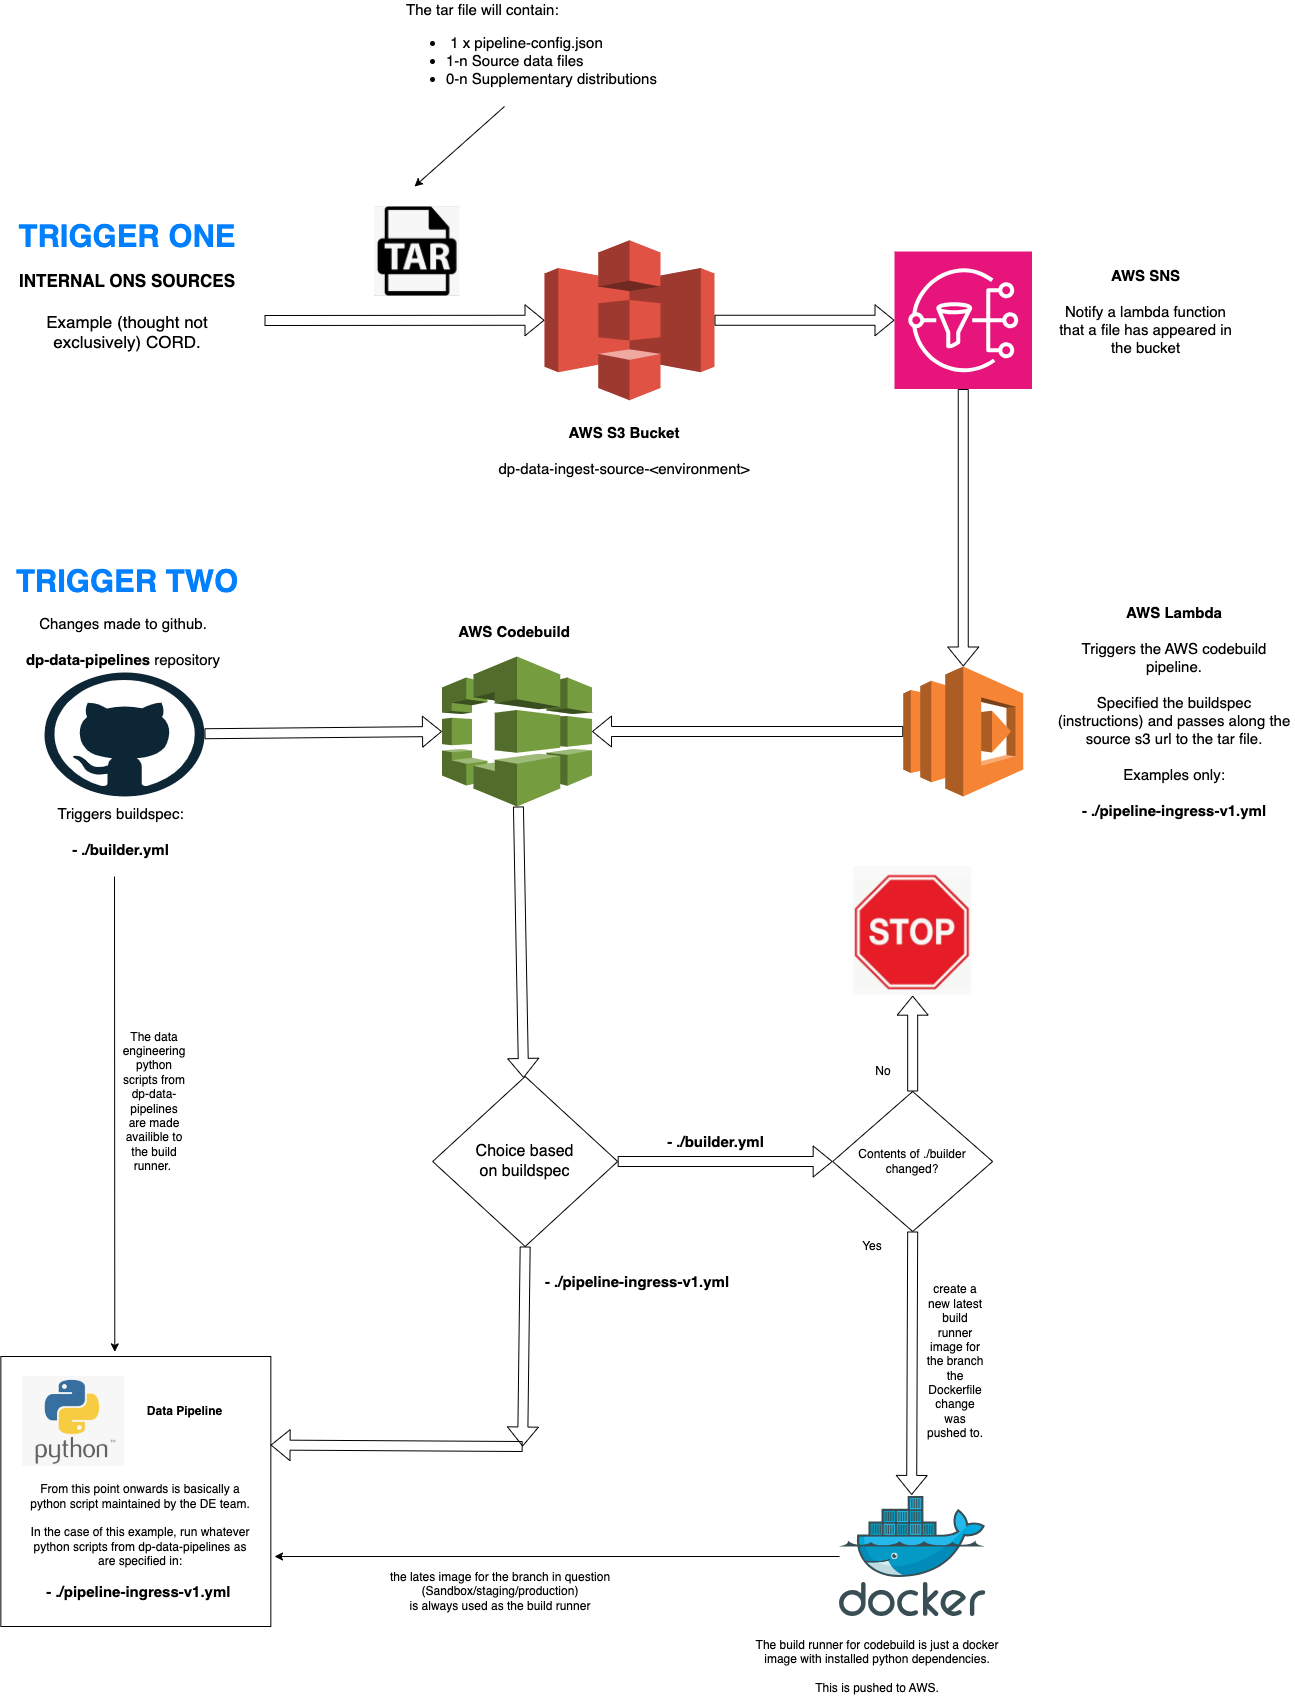
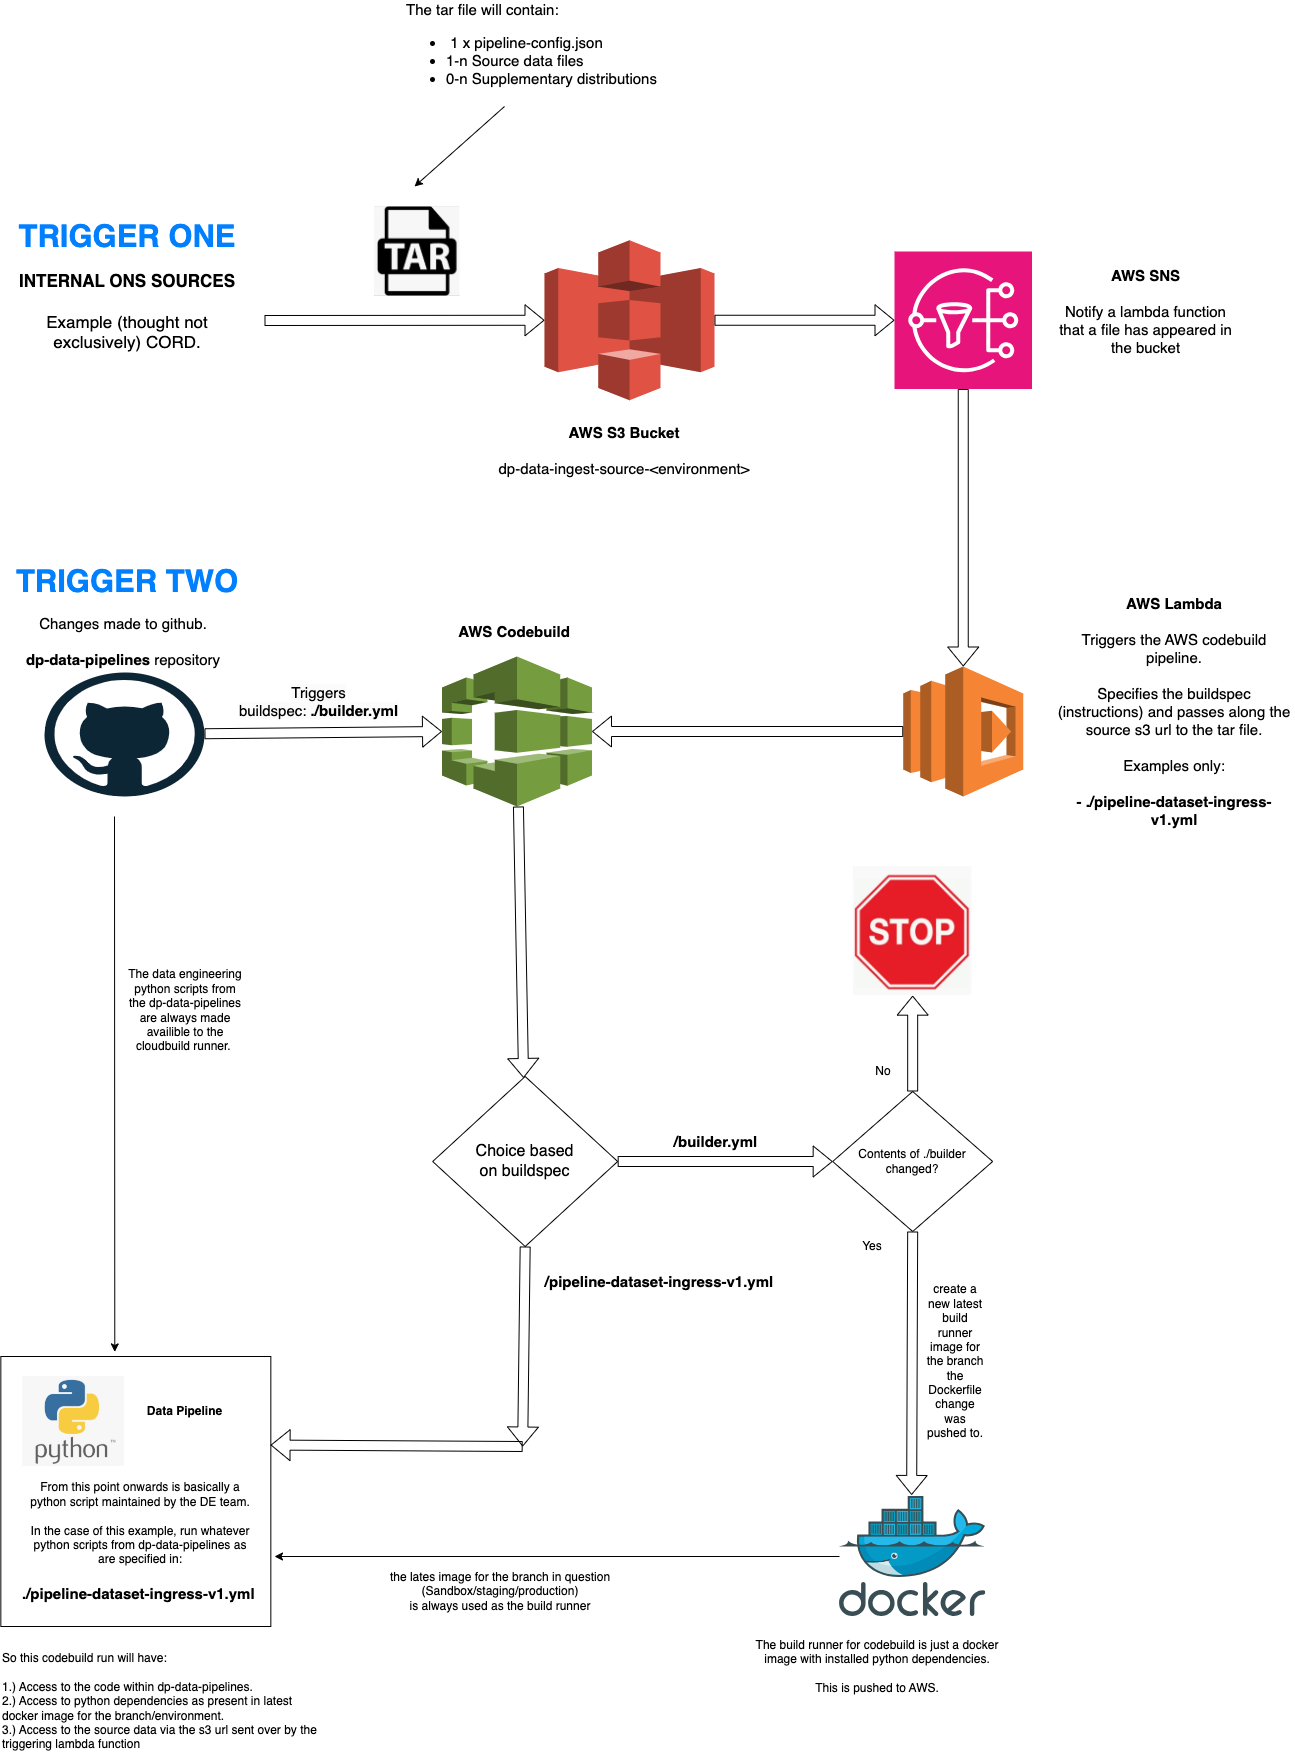
more specific nomanclature to make reuse easier

diff --git a/pipeline/dataset_ingress_v1.py b/pipeline/dataset_ingress_v1.py
@@ -1,7 +1,7 @@
 
 def ingress_v1():
     """
-    Version one of the data ingress pipeline.
+    Version one of the dataset ingress pipeline.
     """
     
     # ... the rough list of steps this pipeline will perform follow ...

diff --git a/README.md b/README.md
@@ -27,8 +27,8 @@ _How_ the pipelines mentioned below actually work is covered in the following _I
 
 This system works as follow:
 
-- The lambda triggers a buildspec, for an example lets use [pipeline-ingress.v1.yml](./pipeline-ingress-v1.yml)
-- This particular buildspec triggers a python pipeline of [./pipeline/ingress_v1.py](./pipeline/ingress_v1.py)
+- The lambda triggers a buildspec, for an example lets use [pipeline-dataset-ingress.v1.yml](./pipeline-ingress-v1.yml)
+- This particular buildspec triggers a python pipeline of [./pipeline/dataset-ingress_v1.py](./pipeline/ingress_v1.py)
 - The pipeline will have an s3 url which will be decompressed to the working dir, it provides:
      - source data
      - configuration options (such as which "transform" script to be applied to the source data)
@@ -36,6 +36,6 @@ This system works as follow:
 For specific details using the above example please see:
 
 - 1.) [The ingress v1 pipeline-config.json readme](./docs/pipeline-config.md).
-- 2.) [The ingress v1 pipeline code readme](./pipeline/README.md)
-- 3.) [The pipeline-ingress.v1.yml buildspec](./pipeline-ingress-v1.yml)
+- 2.) [The dataset ingress v1 pipeline code readme](./pipeline/README.md)
+- 3.) [The pipeline-dataset-ingress.v1.yml buildspec](./pipeline-dataset-ingress-v1.yml)
 
